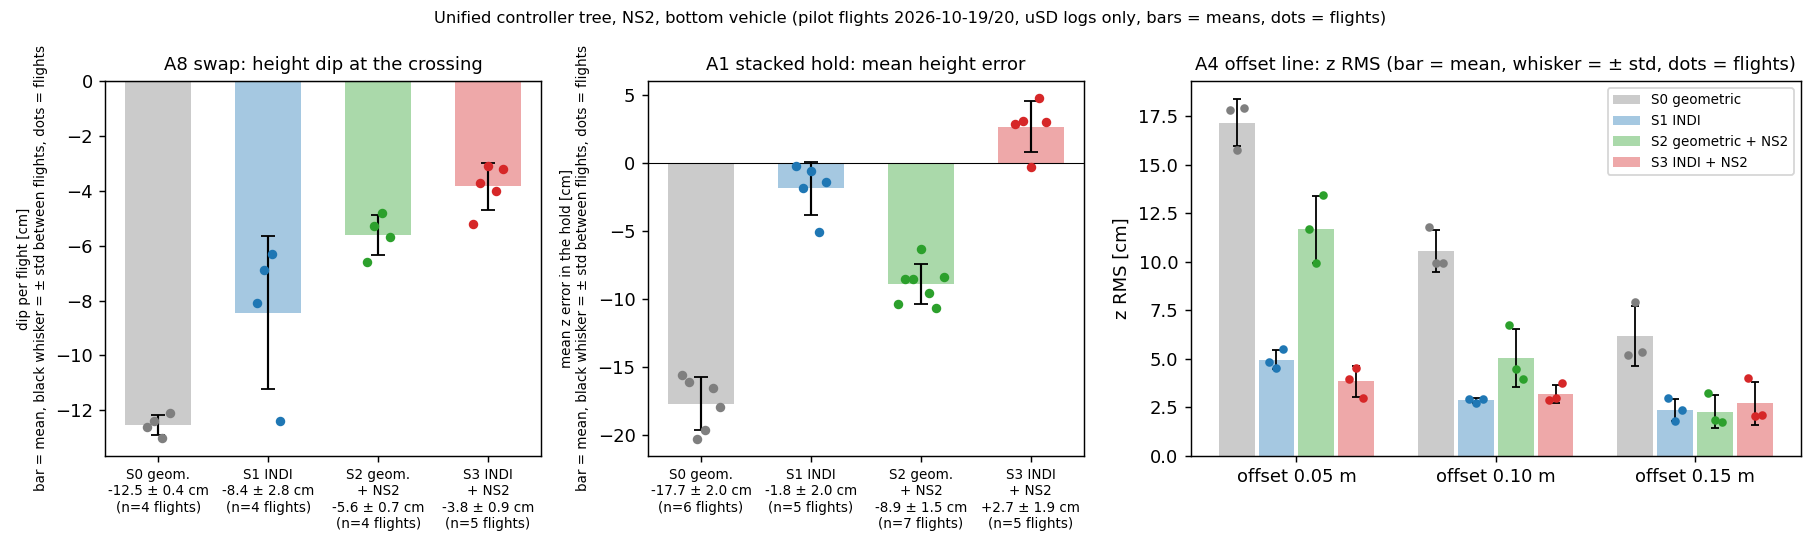
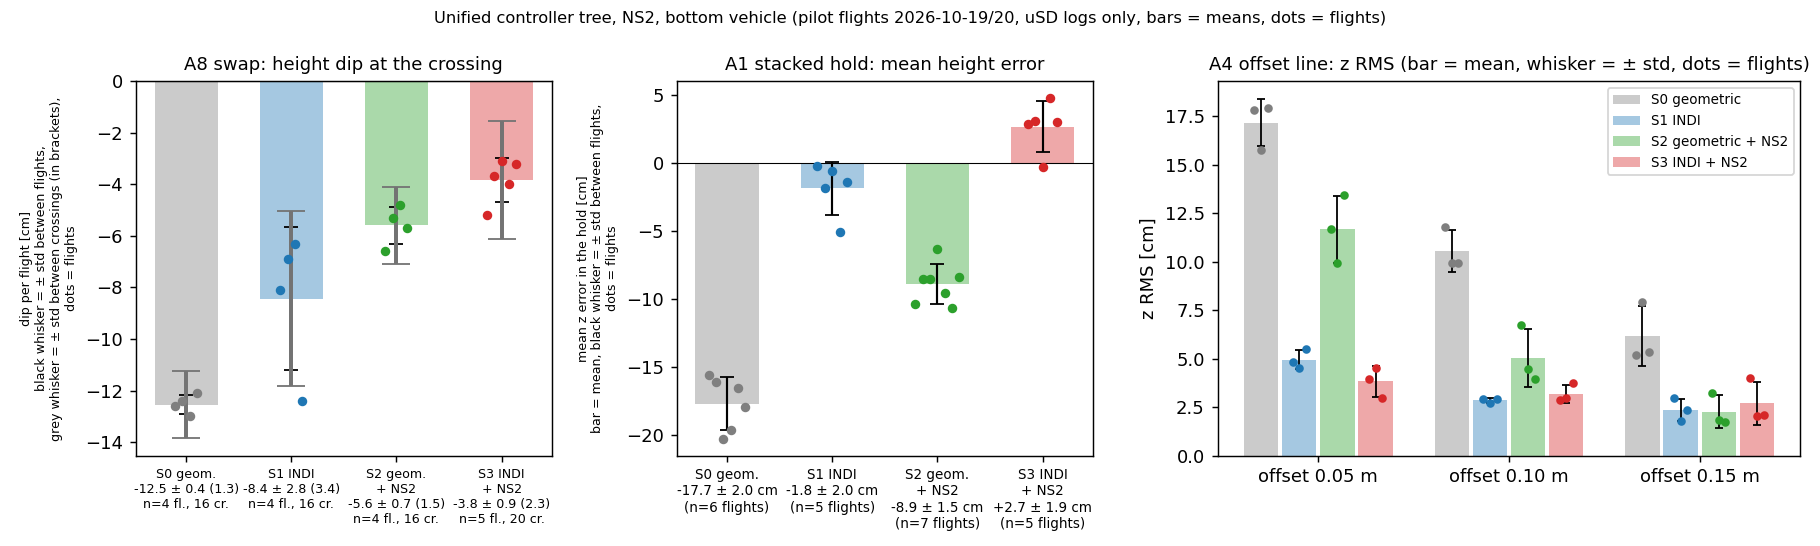
Overview figure/summary: A8 with std between crossings (grey whisker) next to std between flights

diff --git a/experiments/analysis/unified_overview.py b/experiments/analysis/unified_overview.py
@@ -19,11 +19,11 @@ A4 = pd.concat([pd.DataFrame(json.load(open(RES / "pilot_all_2026-10-20/cell_sum
 A4 = A4[(A4.scenario == "A4") & (A4.offset > 0.01)]
 A4.to_json(RES / "pilot_all_2026-10-20/cell_summary_all_with_S1.json", orient="records", indent=1)
 rows, S = [], {}
-L = ["### A8 swap (dz 0.5, 0.5 m/s, 4 crossings per flight)", "| strategy | flights | mean dip [cm] | std of the flight means | worst crossing | z RMS [cm] | motors max |", "|---|---|---|---|---|---|---|"]
+L = ["### A8 swap (dz 0.5, 0.5 m/s, 4 crossings per flight)", "| strategy | flights | mean dip [cm] | std between crossings | std of the flight means | worst crossing | z RMS [cm] | motors max |", "|---|---|---|---|---|---|---|---|"]
 for s in ORDER:
     rr = [r for r in a8 if r["name"] == s]; m = np.array([r["dip_mean_cm"] for r in rr]); dips = np.array([r["dip_cm"] for r in rr])
-    S.setdefault("A8", {})[s] = dict(n=len(rr), mean=float(m.mean()), std=float(m.std(ddof=1)) if len(rr) > 1 else 0, worst=float(dips.min()), zrms=float(np.mean([r["z_rms_cm"] for r in rr])), per_flight=[round(float(x), 1) for x in m])
-    L.append(f"| {LAB[s]} | {len(rr)} | **{m.mean():.1f}** | {S['A8'][s]['std']:.1f} | {dips.min():.1f} | {S['A8'][s]['zrms']:.1f} | {min(r['motor_max_pct'] for r in rr):.0f}–{max(r['motor_max_pct'] for r in rr):.0f} % |")
+    S.setdefault("A8", {})[s] = dict(n=len(rr), mean=float(m.mean()), std=float(m.std(ddof=1)) if len(rr) > 1 else 0, worst=float(dips.min()), zrms=float(np.mean([r["z_rms_cm"] for r in rr])), per_flight=[round(float(x), 1) for x in m], std_cross=float(dips.flatten().std(ddof=1)), n_cross=int(dips.size))
+    L.append(f"| {LAB[s]} | {len(rr)} | **{m.mean():.1f}** | {S['A8'][s]['std_cross']:.1f} (n={S['A8'][s]['n_cross']}) | {S['A8'][s]['std']:.1f} | {dips.min():.1f} | {S['A8'][s]['zrms']:.1f} | {min(r['motor_max_pct'] for r in rr):.0f}–{max(r['motor_max_pct'] for r in rr):.0f} % |")
 L += ["", "### A1 stacked hold (dz 0.5, hold 15 s, window 2–15 s)", "| strategy | flights | z error mean [cm] | std of the flight means | z RMS [cm] | max roll/pitch | motors max |", "|---|---|---|---|---|---|---|"]
 for s in ORDER:
     rr = [r for r in a1 if r["strategy"] == s]; m = np.array([r["z_mean_cm"] for r in rr])
@@ -42,10 +42,11 @@ fig, ax = plt.subplots(1, 3, figsize=(14, 4.2), gridspec_kw={"width_ratios": [1,
 for i, s in enumerate(ORDER):
     for k, key, sgn in ((0, "A8", 1), (1, "A1", 1)):
         d = S[key][s]; ax[k].bar(i, d["mean"], color=COL[s], alpha=.4, width=.6, yerr=d["std"], capsize=4, error_kw=dict(ecolor="k", lw=1.2))
+        if key == "A8": ax[k].errorbar(i, d["mean"], yerr=d["std_cross"], fmt="none", ecolor="0.45", elinewidth=2.2, capsize=8, zorder=2)      # grey whisker: std between all single crossings
         pts = d["per_flight"]; ax[k].scatter([i + (j - (len(pts) - 1) / 2) * .07 for j in range(len(pts))], pts, color=COL[s], s=18, zorder=3)
 for k, (key, t, y) in enumerate((("A8", "A8 swap: height dip at the crossing", "dip per flight [cm]"), ("A1", "A1 stacked hold: mean height error", "mean z error in the hold [cm]"))):
     M = [S[key][s]["mean"] for s in ORDER]; N = [S[key][s]["n"] for s in ORDER]; SD = [S[key][s]["std"] for s in ORDER]
-    ax[k].set_xticks(range(4)); ax[k].set_xticklabels([f"{LAB[s].replace(' + ', chr(10) + '+ ').replace('geometric', 'geom.')}\n{m:+.1f} ± {sd:.1f} cm\n(n={n} flights)" for s, m, sd, n in zip(ORDER, M, SD, N)], fontsize=7.5); ax[k].axhline(0, color="k", lw=.6); ax[k].set_title(t, fontsize=10); ax[k].set_ylabel(y + "\nbar = mean, black whisker = ± std between flights, dots = flights", fontsize=7.5)
+    ax[k].set_xticks(range(4)); ax[k].set_xticklabels([f"{LAB[s].replace(' + ', chr(10) + '+ ').replace('geometric', 'geom.')}\n{m:+.1f} ± {sd:.1f}" + (f" ({S[key][s]['std_cross']:.1f})\nn={n} fl., {S[key][s]['n_cross']} cr." if key == "A8" else f" cm\n(n={n} flights)") for s, m, sd, n in zip(ORDER, M, SD, N)], fontsize=7 if key == "A8" else 7.5); ax[k].axhline(0, color="k", lw=.6); ax[k].set_title(t, fontsize=10); ax[k].set_ylabel(y + ("\nblack whisker = ± std between flights,\ngrey whisker = ± std between crossings (in brackets),\ndots = flights" if key == "A8" else "\nbar = mean, black whisker = ± std between flights,\ndots = flights"), fontsize=7)
 w = .2
 for j, s in enumerate(ORDER):
     xs, ys, es = [], [], []

diff --git a/experiments/results/unified_overview_2026-10-20/overview.md b/experiments/results/unified_overview_2026-10-20/overview.md
@@ -1,10 +1,10 @@
 ### A8 swap (dz 0.5, 0.5 m/s, 4 crossings per flight)
-| strategy | flights | mean dip [cm] | std of the flight means | worst crossing | z RMS [cm] | motors max |
-|---|---|---|---|---|---|---|
-| S0 geometric | 4 | **-12.5** | 0.4 | -15.1 | 3.8 | 76–80 % |
-| S1 INDI | 4 | **-8.4** | 2.8 | -13.9 | 3.1 | 100–100 % |
-| S2 geometric + NS2 | 4 | **-5.6** | 0.7 | -9.3 | 1.8 | 79–82 % |
-| S3 INDI + NS2 | 5 | **-3.8** | 0.9 | -8.6 | 2.1 | 100–100 % |
+| strategy | flights | mean dip [cm] | std between crossings | std of the flight means | worst crossing | z RMS [cm] | motors max |
+|---|---|---|---|---|---|---|---|
+| S0 geometric | 4 | **-12.5** | 1.3 (n=16) | 0.4 | -15.1 | 3.8 | 76–80 % |
+| S1 INDI | 4 | **-8.4** | 3.4 (n=16) | 2.8 | -13.9 | 3.1 | 100–100 % |
+| S2 geometric + NS2 | 4 | **-5.6** | 1.5 (n=16) | 0.7 | -9.3 | 1.8 | 79–82 % |
+| S3 INDI + NS2 | 5 | **-3.8** | 2.3 (n=20) | 0.9 | -8.6 | 2.1 | 100–100 % |
 
 ### A1 stacked hold (dz 0.5, hold 15 s, window 2–15 s)
 | strategy | flights | z error mean [cm] | std of the flight means | z RMS [cm] | max roll/pitch | motors max |
